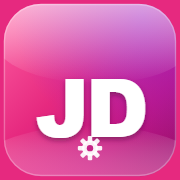
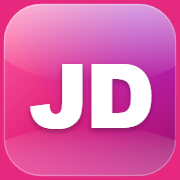
design: logo去掉齿轮，JD字母放大居中

Changed region(s): [[0.1667, 0.3333, 0.8611, 0.8889]]

diff --git a/index.html b/index.html
@@ -7,21 +7,21 @@
 <meta http-equiv="Pragma" content="no-cache">
 <meta http-equiv="Expires" content="0">
 <title>一建机电 · 无死角刷题系统</title>
-<link rel="icon" type="image/png" href="favicon-192.png?v=20261119l">
-<link rel="shortcut icon" href="favicon.ico?v=20261119l">
-<link rel="apple-touch-icon" sizes="180x180" href="apple-touch-icon.png?v=20261119l">
+<link rel="icon" type="image/png" href="favicon-192.png?v=20261119m">
+<link rel="shortcut icon" href="favicon.ico?v=20261119m">
+<link rel="apple-touch-icon" sizes="180x180" href="apple-touch-icon.png?v=20261119m">
 <meta name="apple-mobile-web-app-capable" content="yes">
 <meta name="apple-mobile-web-app-status-bar-style" content="black-translucent">
 <meta name="apple-mobile-web-app-title" content="一建机电刷题">
 <meta name="theme-color" content="#0f1115">
-<link rel="manifest" href="manifest.webmanifest?v=20261119l">
-<link rel="stylesheet" href="style.css?v=20261119l">
+<link rel="manifest" href="manifest.webmanifest?v=20261119m">
+<link rel="stylesheet" href="style.css?v=20261119m">
 </head>
 <body>
 <div id="app">
   <header class="topbar">
     <div class="brand">
-      <img class="brand-mark" src="icon.svg?v=20261119l" alt="一建机电刷题">
+      <img class="brand-mark" src="icon.svg?v=20261119m" alt="一建机电刷题">
       <div>
         <div class="brand-title">一建机电 · 无死角刷题系统</div>
         <div class="brand-sub">官方教材为据 · 真题题型（单选/多选/案例）· 逐节吃透 · 反复刷至烂熟</div>
@@ -130,21 +130,21 @@
   </div>
 </div>
 
-<script src="qrcode.min.js?v=20261119l"></script>
-<script src="data/catalog.js?v=20261119l"></script>
-<script src="data/s1_1a.js?v=20261119l"></script>
-<script src="data/s1_1b.js?v=20261119l"></script>
-<script src="data/s1_1c.js?v=20261119l"></script>
-<script src="data/s1_1d.js?v=20261119l"></script>
-<script src="data/s1_1_cases.js?v=20261119l"></script>
-<script src="data/s1_1.js?v=20261119l"></script>
-<script src="data/s1_2a.js?v=20261119l"></script>
-<script src="data/s1_2b.js?v=20261119l"></script>
-<script src="data/s1_2c.js?v=20261119l"></script>
-<script src="data/s1_2d.js?v=20261119l"></script>
-<script src="data/s1_2_cases.js?v=20261119l"></script>
-<script src="data/s1_2.js?v=20261119l"></script>
-<script src="data/stars.js?v=20261119l"></script>
-<script src="app.js?v=20261119l"></script>
+<script src="qrcode.min.js?v=20261119m"></script>
+<script src="data/catalog.js?v=20261119m"></script>
+<script src="data/s1_1a.js?v=20261119m"></script>
+<script src="data/s1_1b.js?v=20261119m"></script>
+<script src="data/s1_1c.js?v=20261119m"></script>
+<script src="data/s1_1d.js?v=20261119m"></script>
+<script src="data/s1_1_cases.js?v=20261119m"></script>
+<script src="data/s1_1.js?v=20261119m"></script>
+<script src="data/s1_2a.js?v=20261119m"></script>
+<script src="data/s1_2b.js?v=20261119m"></script>
+<script src="data/s1_2c.js?v=20261119m"></script>
+<script src="data/s1_2d.js?v=20261119m"></script>
+<script src="data/s1_2_cases.js?v=20261119m"></script>
+<script src="data/s1_2.js?v=20261119m"></script>
+<script src="data/stars.js?v=20261119m"></script>
+<script src="app.js?v=20261119m"></script>
 </body>
 </html>
